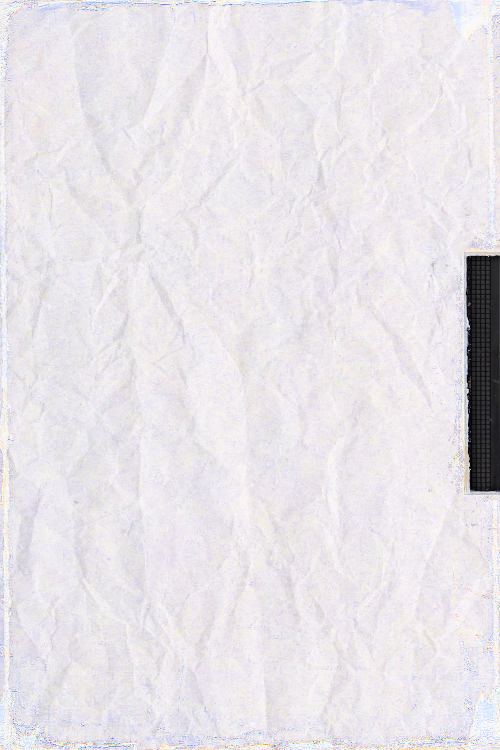
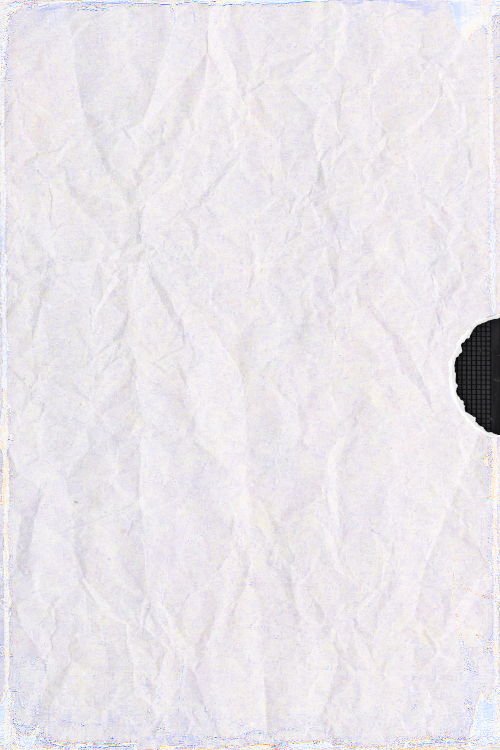
v1.0.0 - Initial Release

Changed region(s): [[0.9, 0.3067, 1.0, 0.6747]]

diff --git a/static/app-shell.css b/static/app-shell.css
@@ -1639,15 +1639,11 @@ html[data-theme="vhs"] #spotlightGrid {
    * `--tile-count` on the element when the row renders. */
   container-type: inline-size;
   /* Raised-frame surface — shows in the diagonal gaps between
-   * adjacent tile polygons and behind the slivers. Tracks the
-   * user's duotone palette, top-to-bottom, so the frame
-   * matches the same gradient that runs through the slivers. */
-  background: linear-gradient(
-    180deg,
-    var(--duotone-lighten, #0048FF) 0%,
-    var(--duotone-midtone, #6c2683) 50%,
-    var(--duotone-multiply, #D500FF) 100%
-  );
+   * adjacent tile polygons. Solid colour (the duotone shadow
+   * stop) so the inter-tile dividers read as uniform blue
+   * lines that match the tile borders, instead of carrying
+   * the gradient that's reserved for the row-end slivers. */
+  background: var(--duotone-lighten, #0048FF);
 }
 html[data-theme="vhs"] #spotlightGrid .spotlight-tile {
   border: 1px solid #0048FF;
@@ -1678,18 +1674,17 @@ html[data-theme="vhs"] #spotlightGrid::after {
   flex: 0 0 calc(12cqi / var(--tile-count, 10));
   align-self: stretch;
   /* Top-to-bottom gradient through the duotone palette so the
-   * slivers track the user's configured colours. */
+   * slivers track the user's configured colours. The slivers
+   * are part of the RAISED frame (same level as the inter-tile
+   * dividers), not recessed cuts — no inset bevel here, so
+   * they read as flat extensions of the frame surface. The
+   * tile bevels alone supply the recessed look on the photos. */
   background: linear-gradient(
     180deg,
     var(--duotone-lighten, #0048FF) 0%,
     var(--duotone-midtone, #6c2683) 50%,
     var(--duotone-multiply, #D500FF) 100%
   );
-  /* Same recessed bevel as the tiles so the slivers read as
-   * shallow cuts in the raised frame, not flat extensions. */
-  box-shadow:
-    inset 6px 6px 10px rgba(0, 0, 0, 0.7),
-    inset -6px -6px 10px rgba(255, 255, 255, 0.15);
 }
 html[data-theme="vhs"] #spotlightGrid::before {
   /* Overlap fully into tile 1's slanted left cut. */
